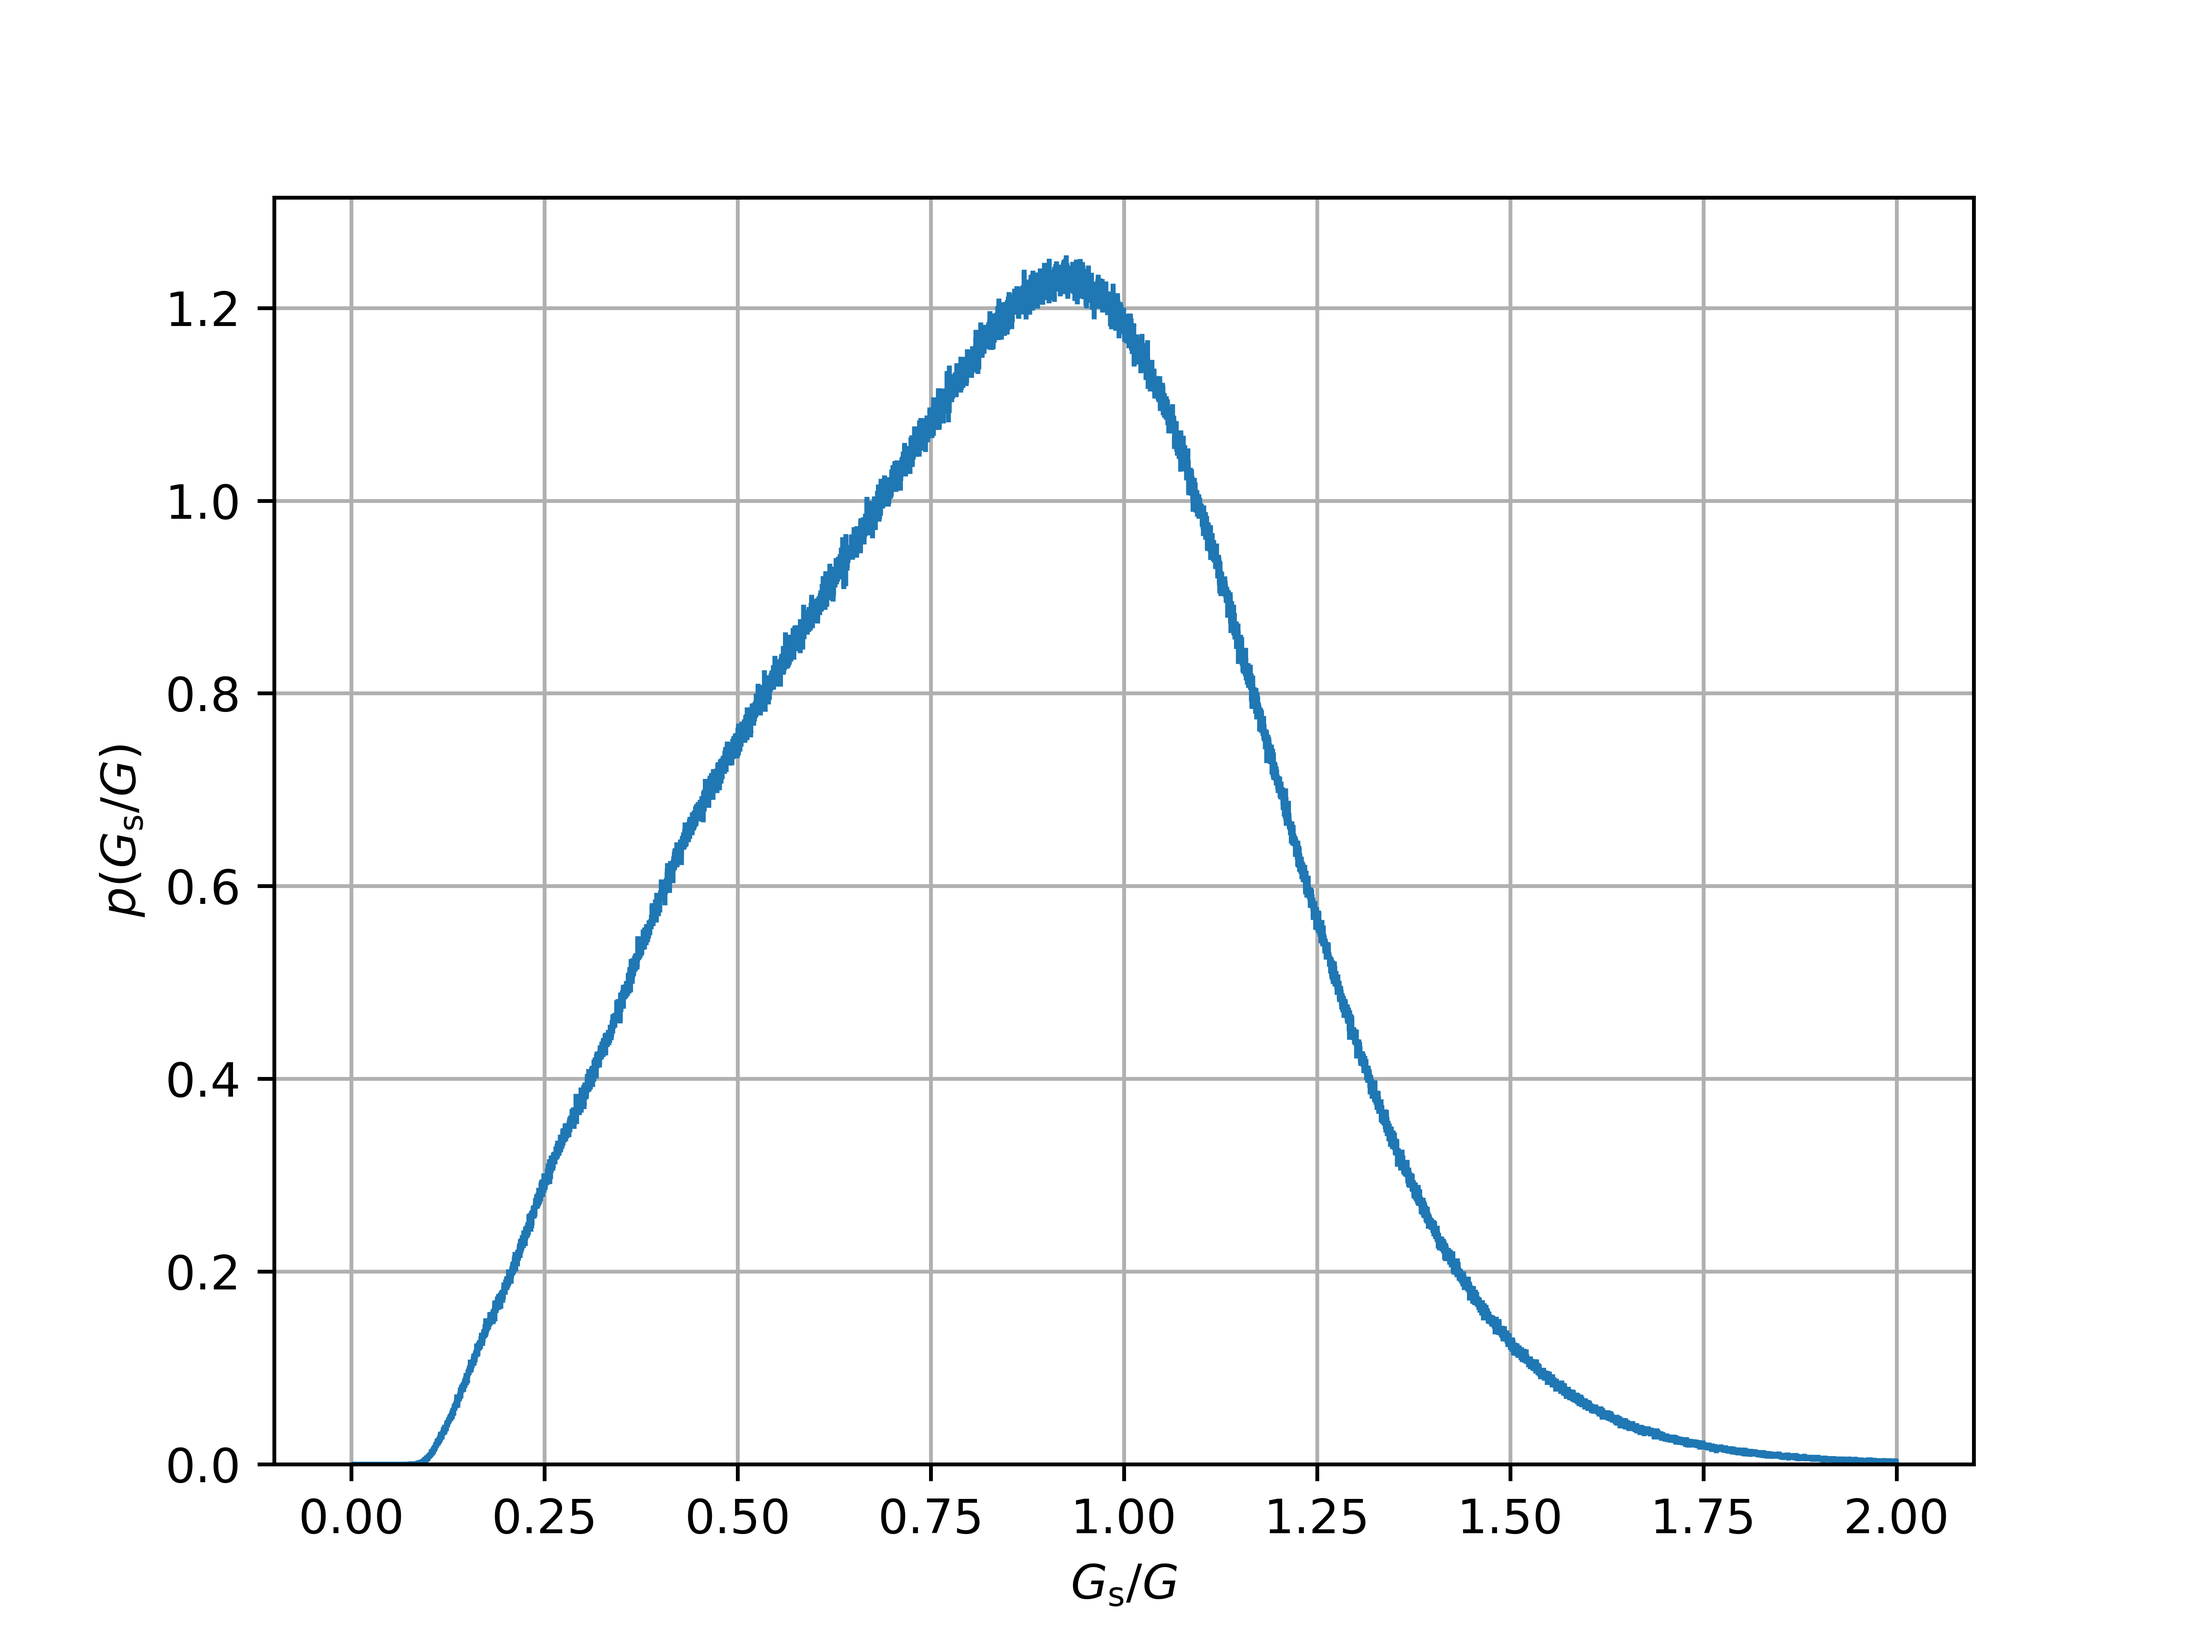
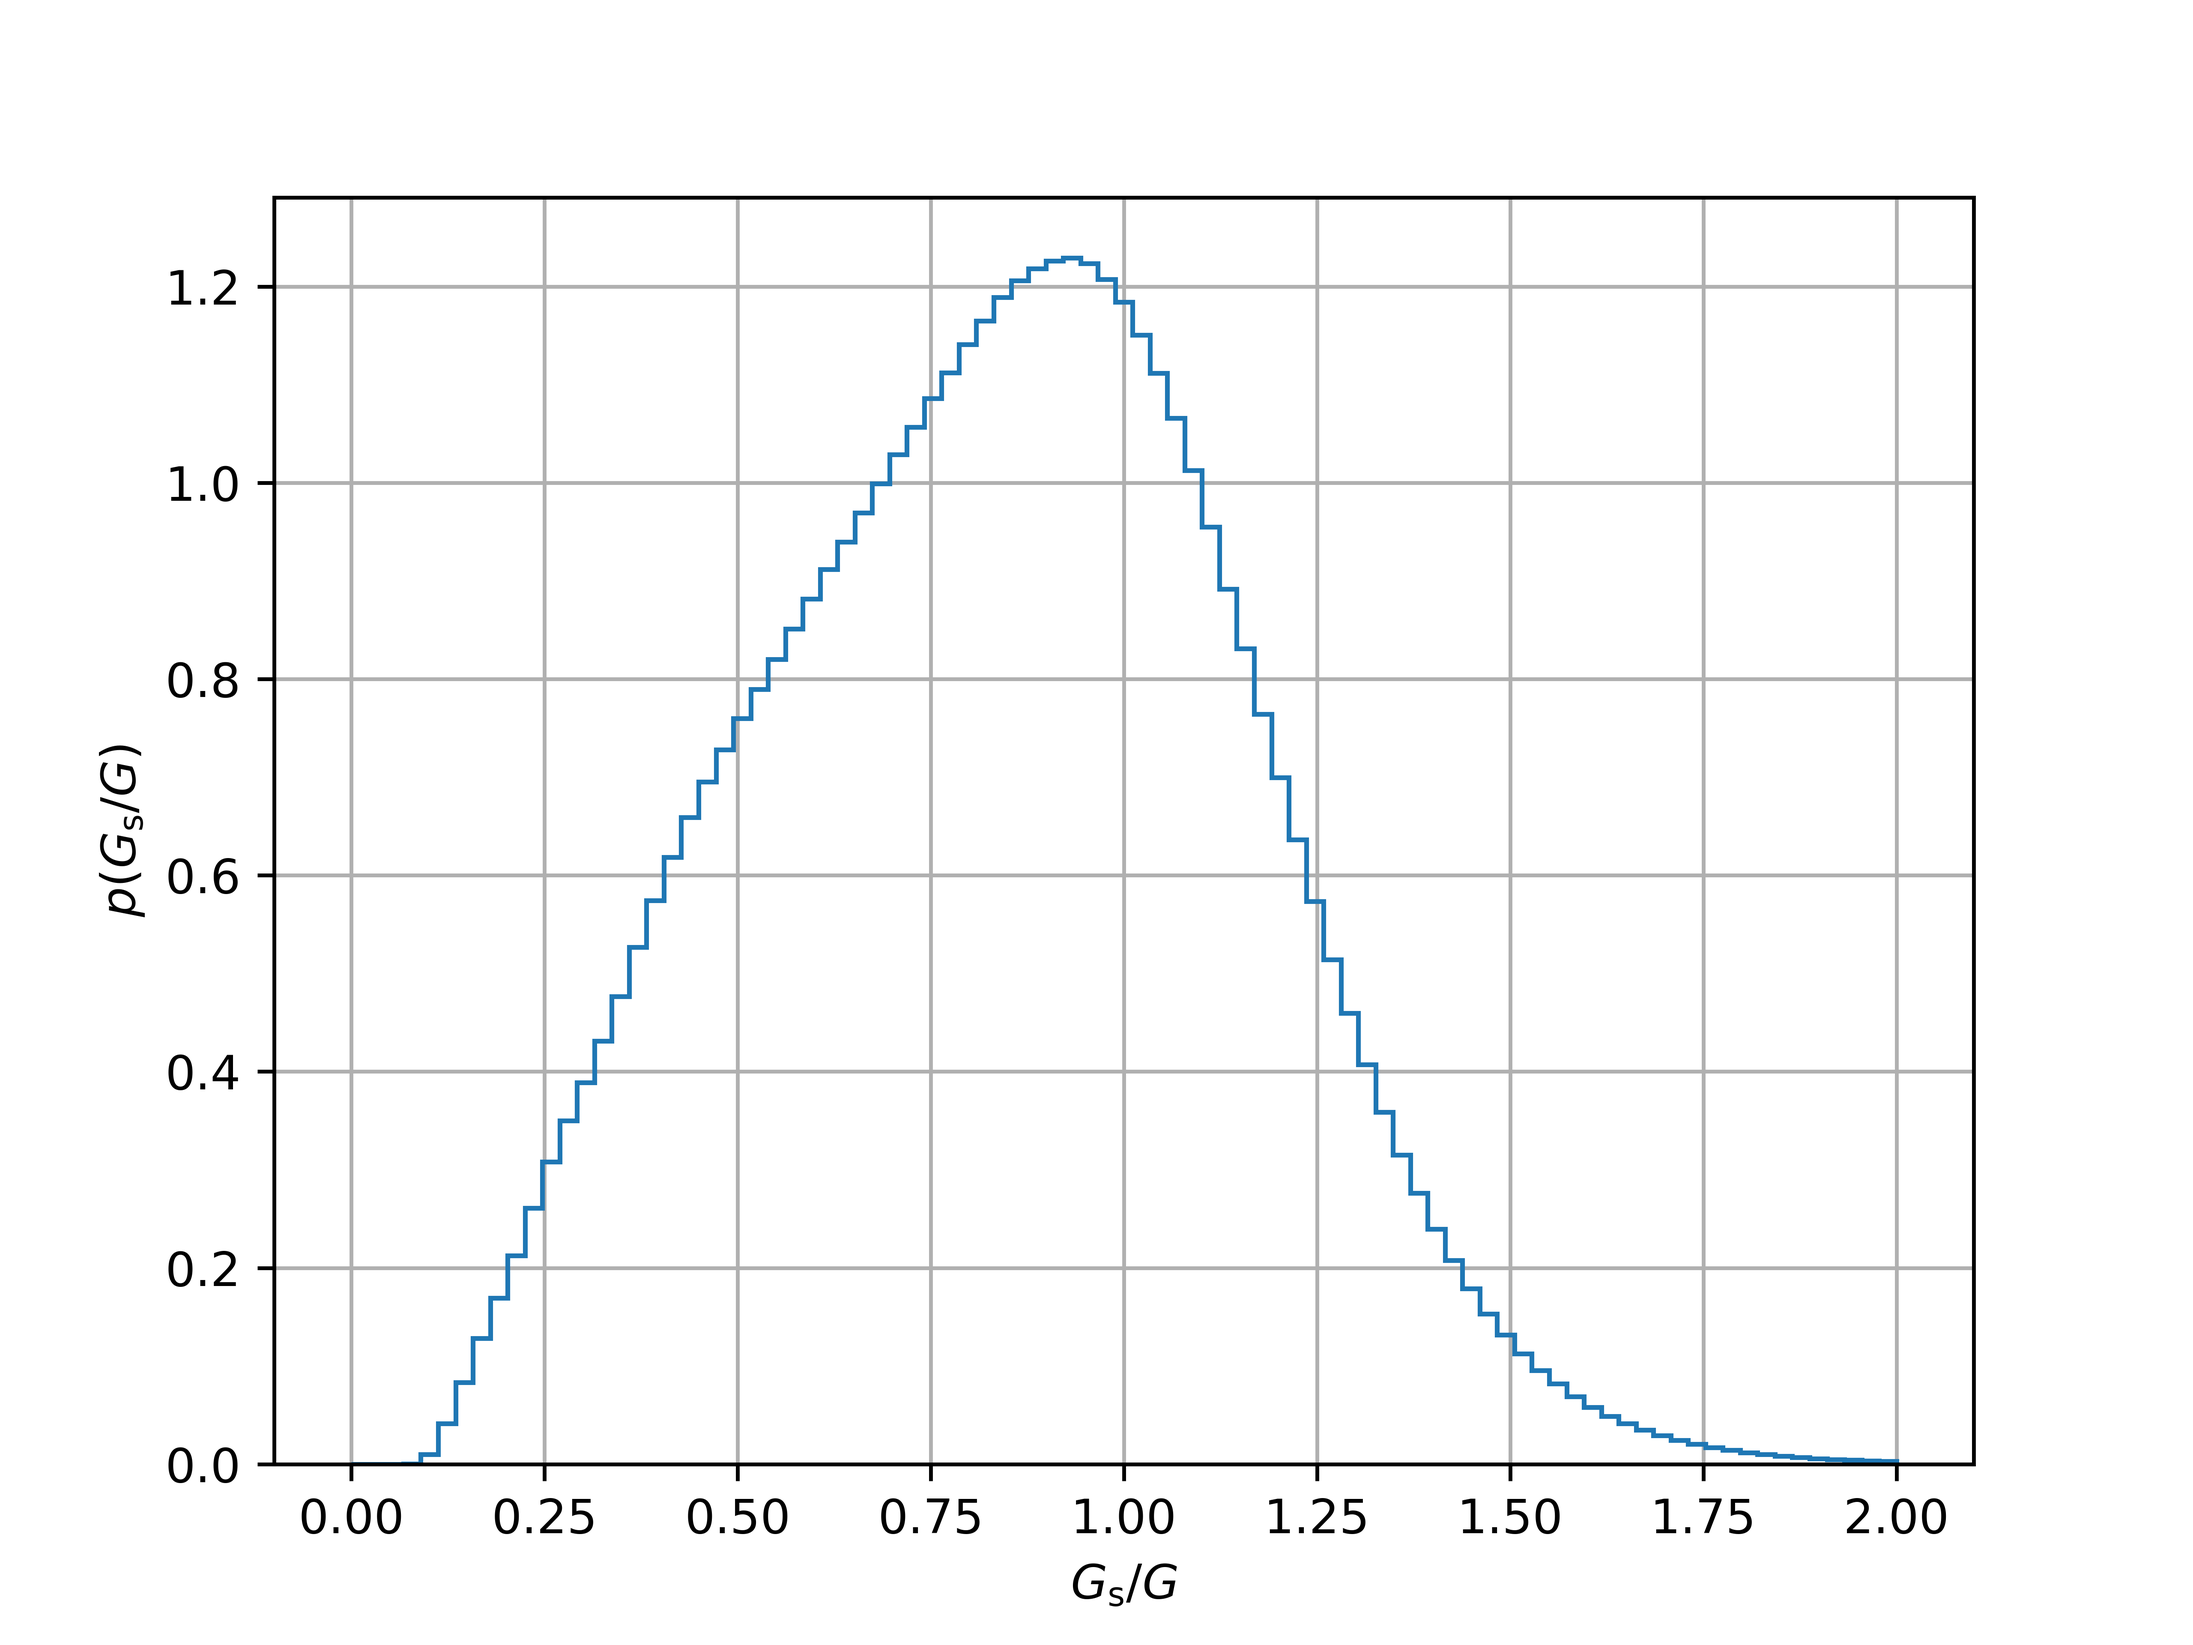
m plot

diff --git a/plot.py b/plot.py
@@ -21,7 +21,8 @@ sample = np.sort((np.random.choice(d_l, size=d_l.size**2)
 print(sample.mean(), sample.std())
 print(sample[int(sample.size*(0.5-0.3413))],
       sample[int(sample.size*(0.5+0.3413))])
-plt.hist(sample, bins=d_l.size, range=(0.0, 2.0), density=True, histtype='step')
+plt.hist(sample, bins=int(d_l.size**(1/2)), range=(0.0, 2.0),
+         density=True, histtype='step')
 plt.xlabel('${G_\\mathrm{s}/G}$')
 plt.ylabel('$p({G_\\mathrm{s}/G})$')
 plt.grid()
